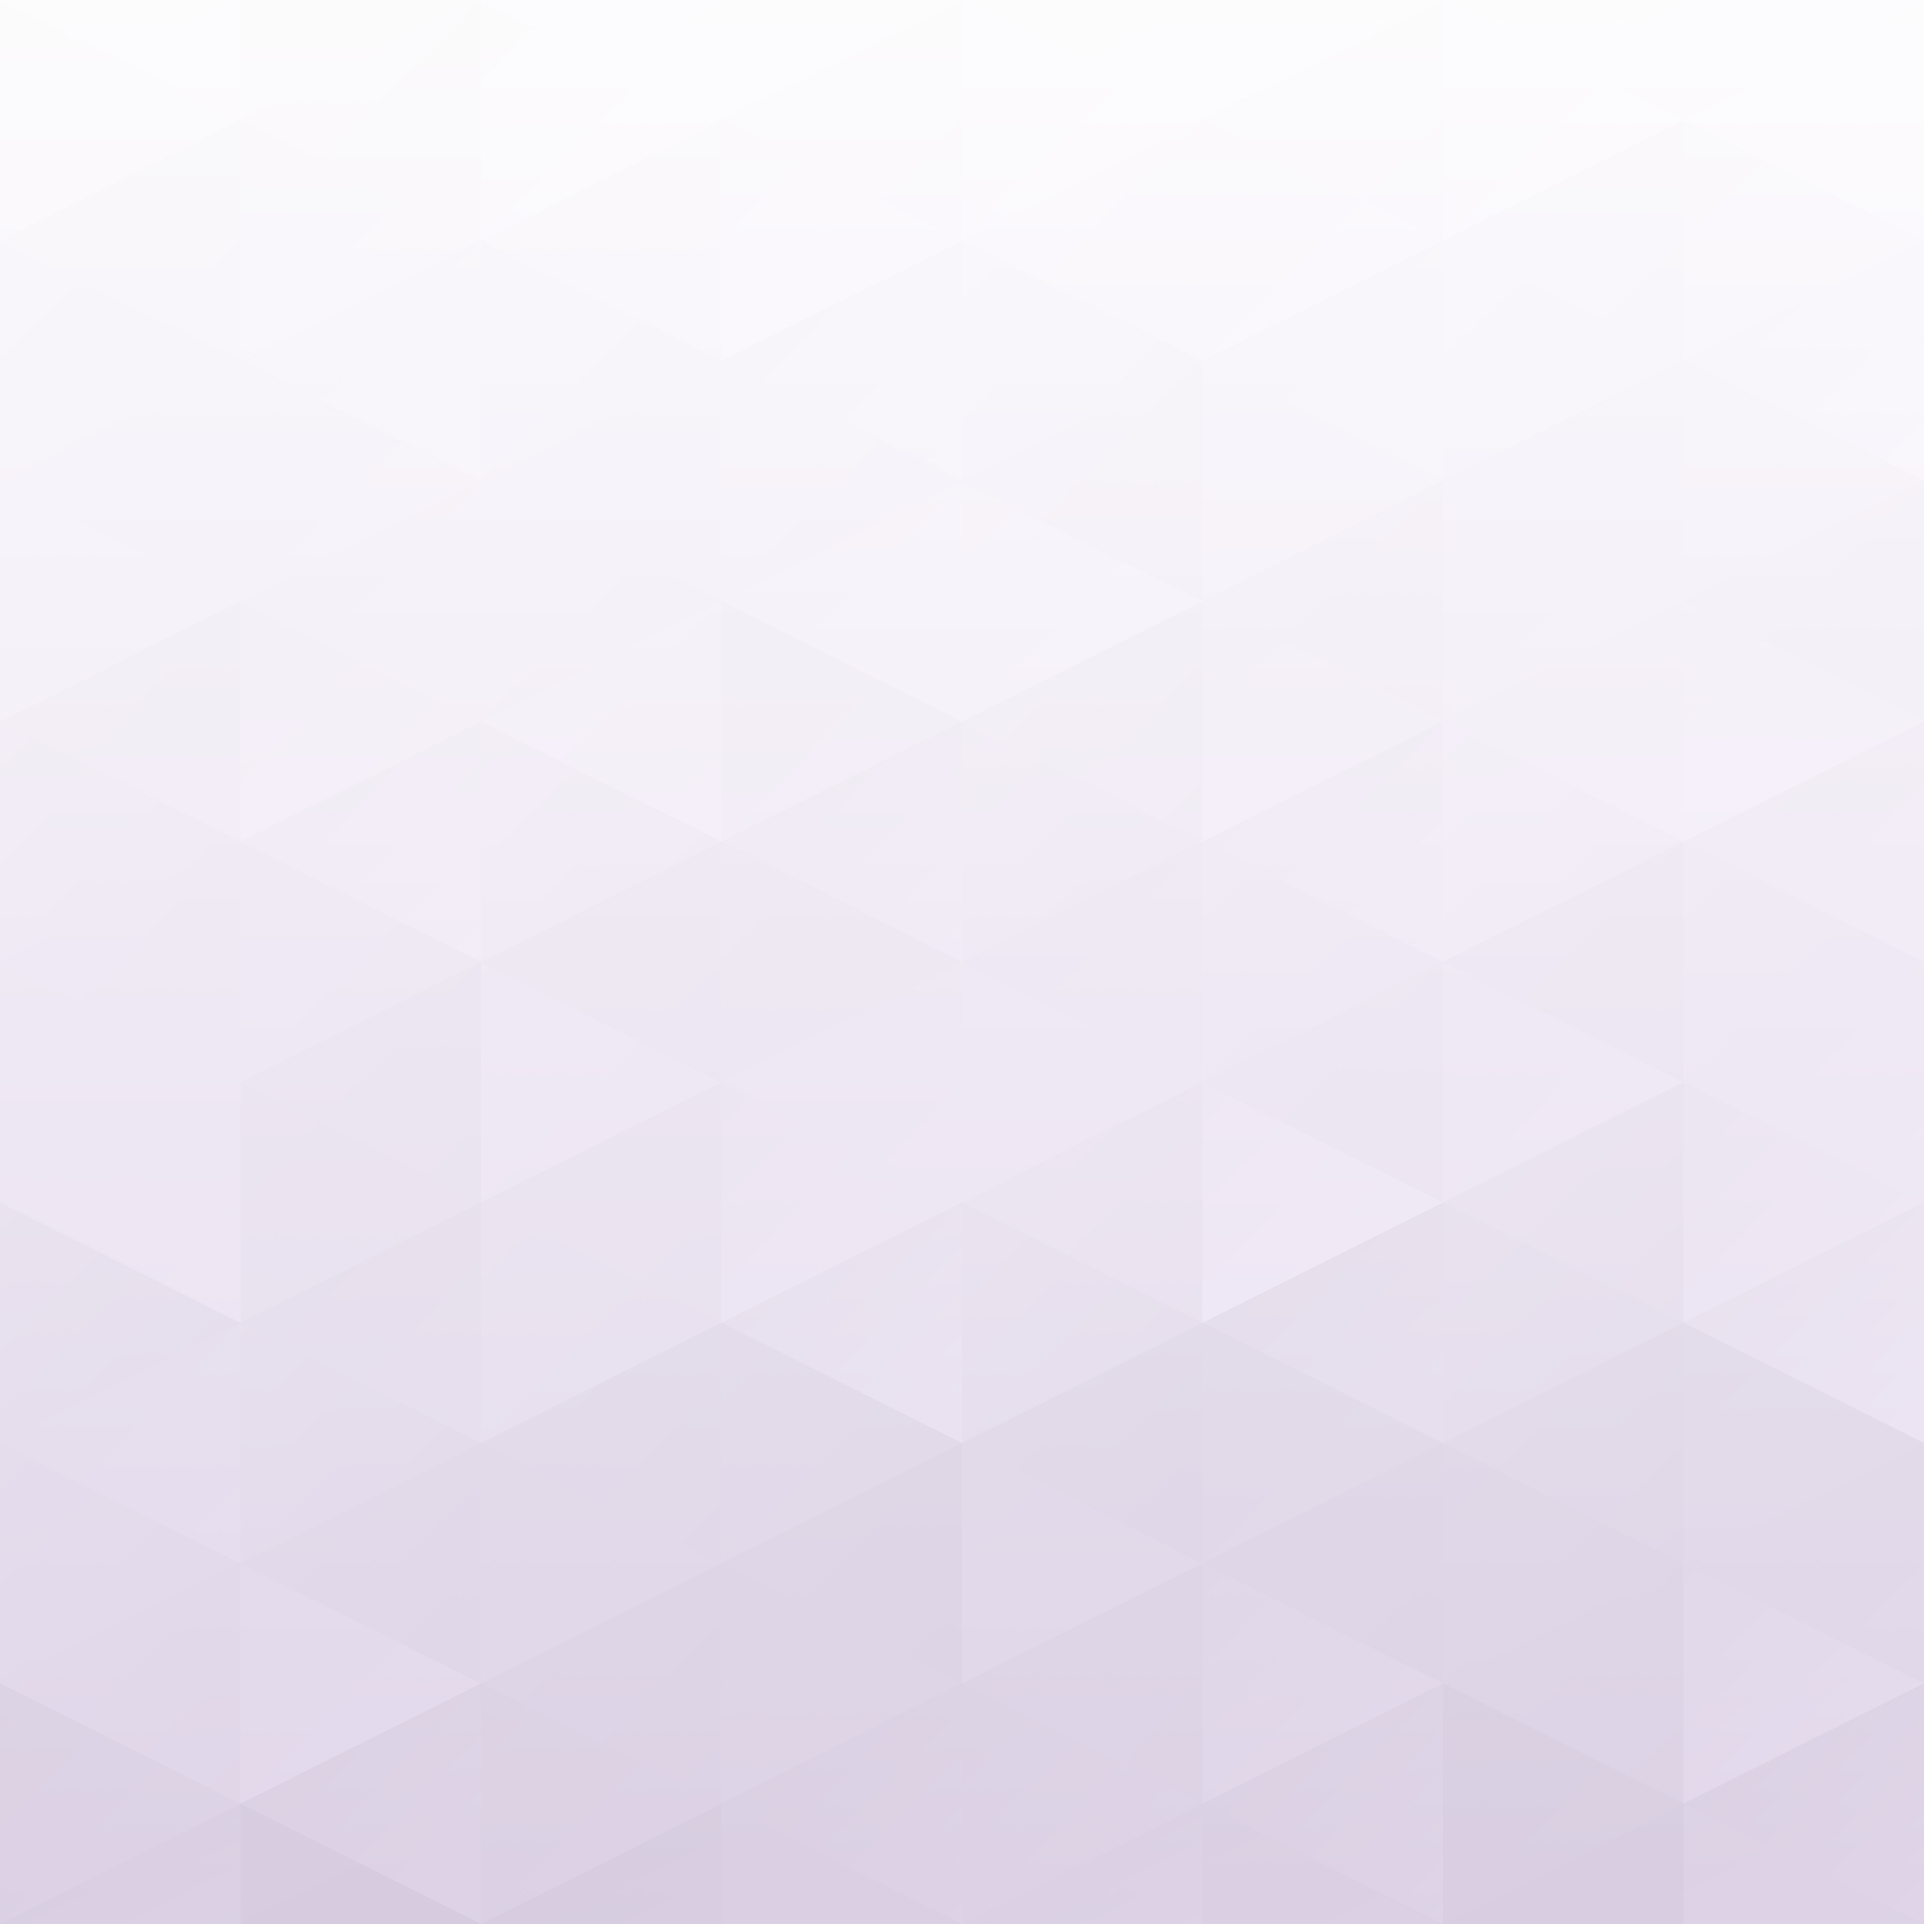
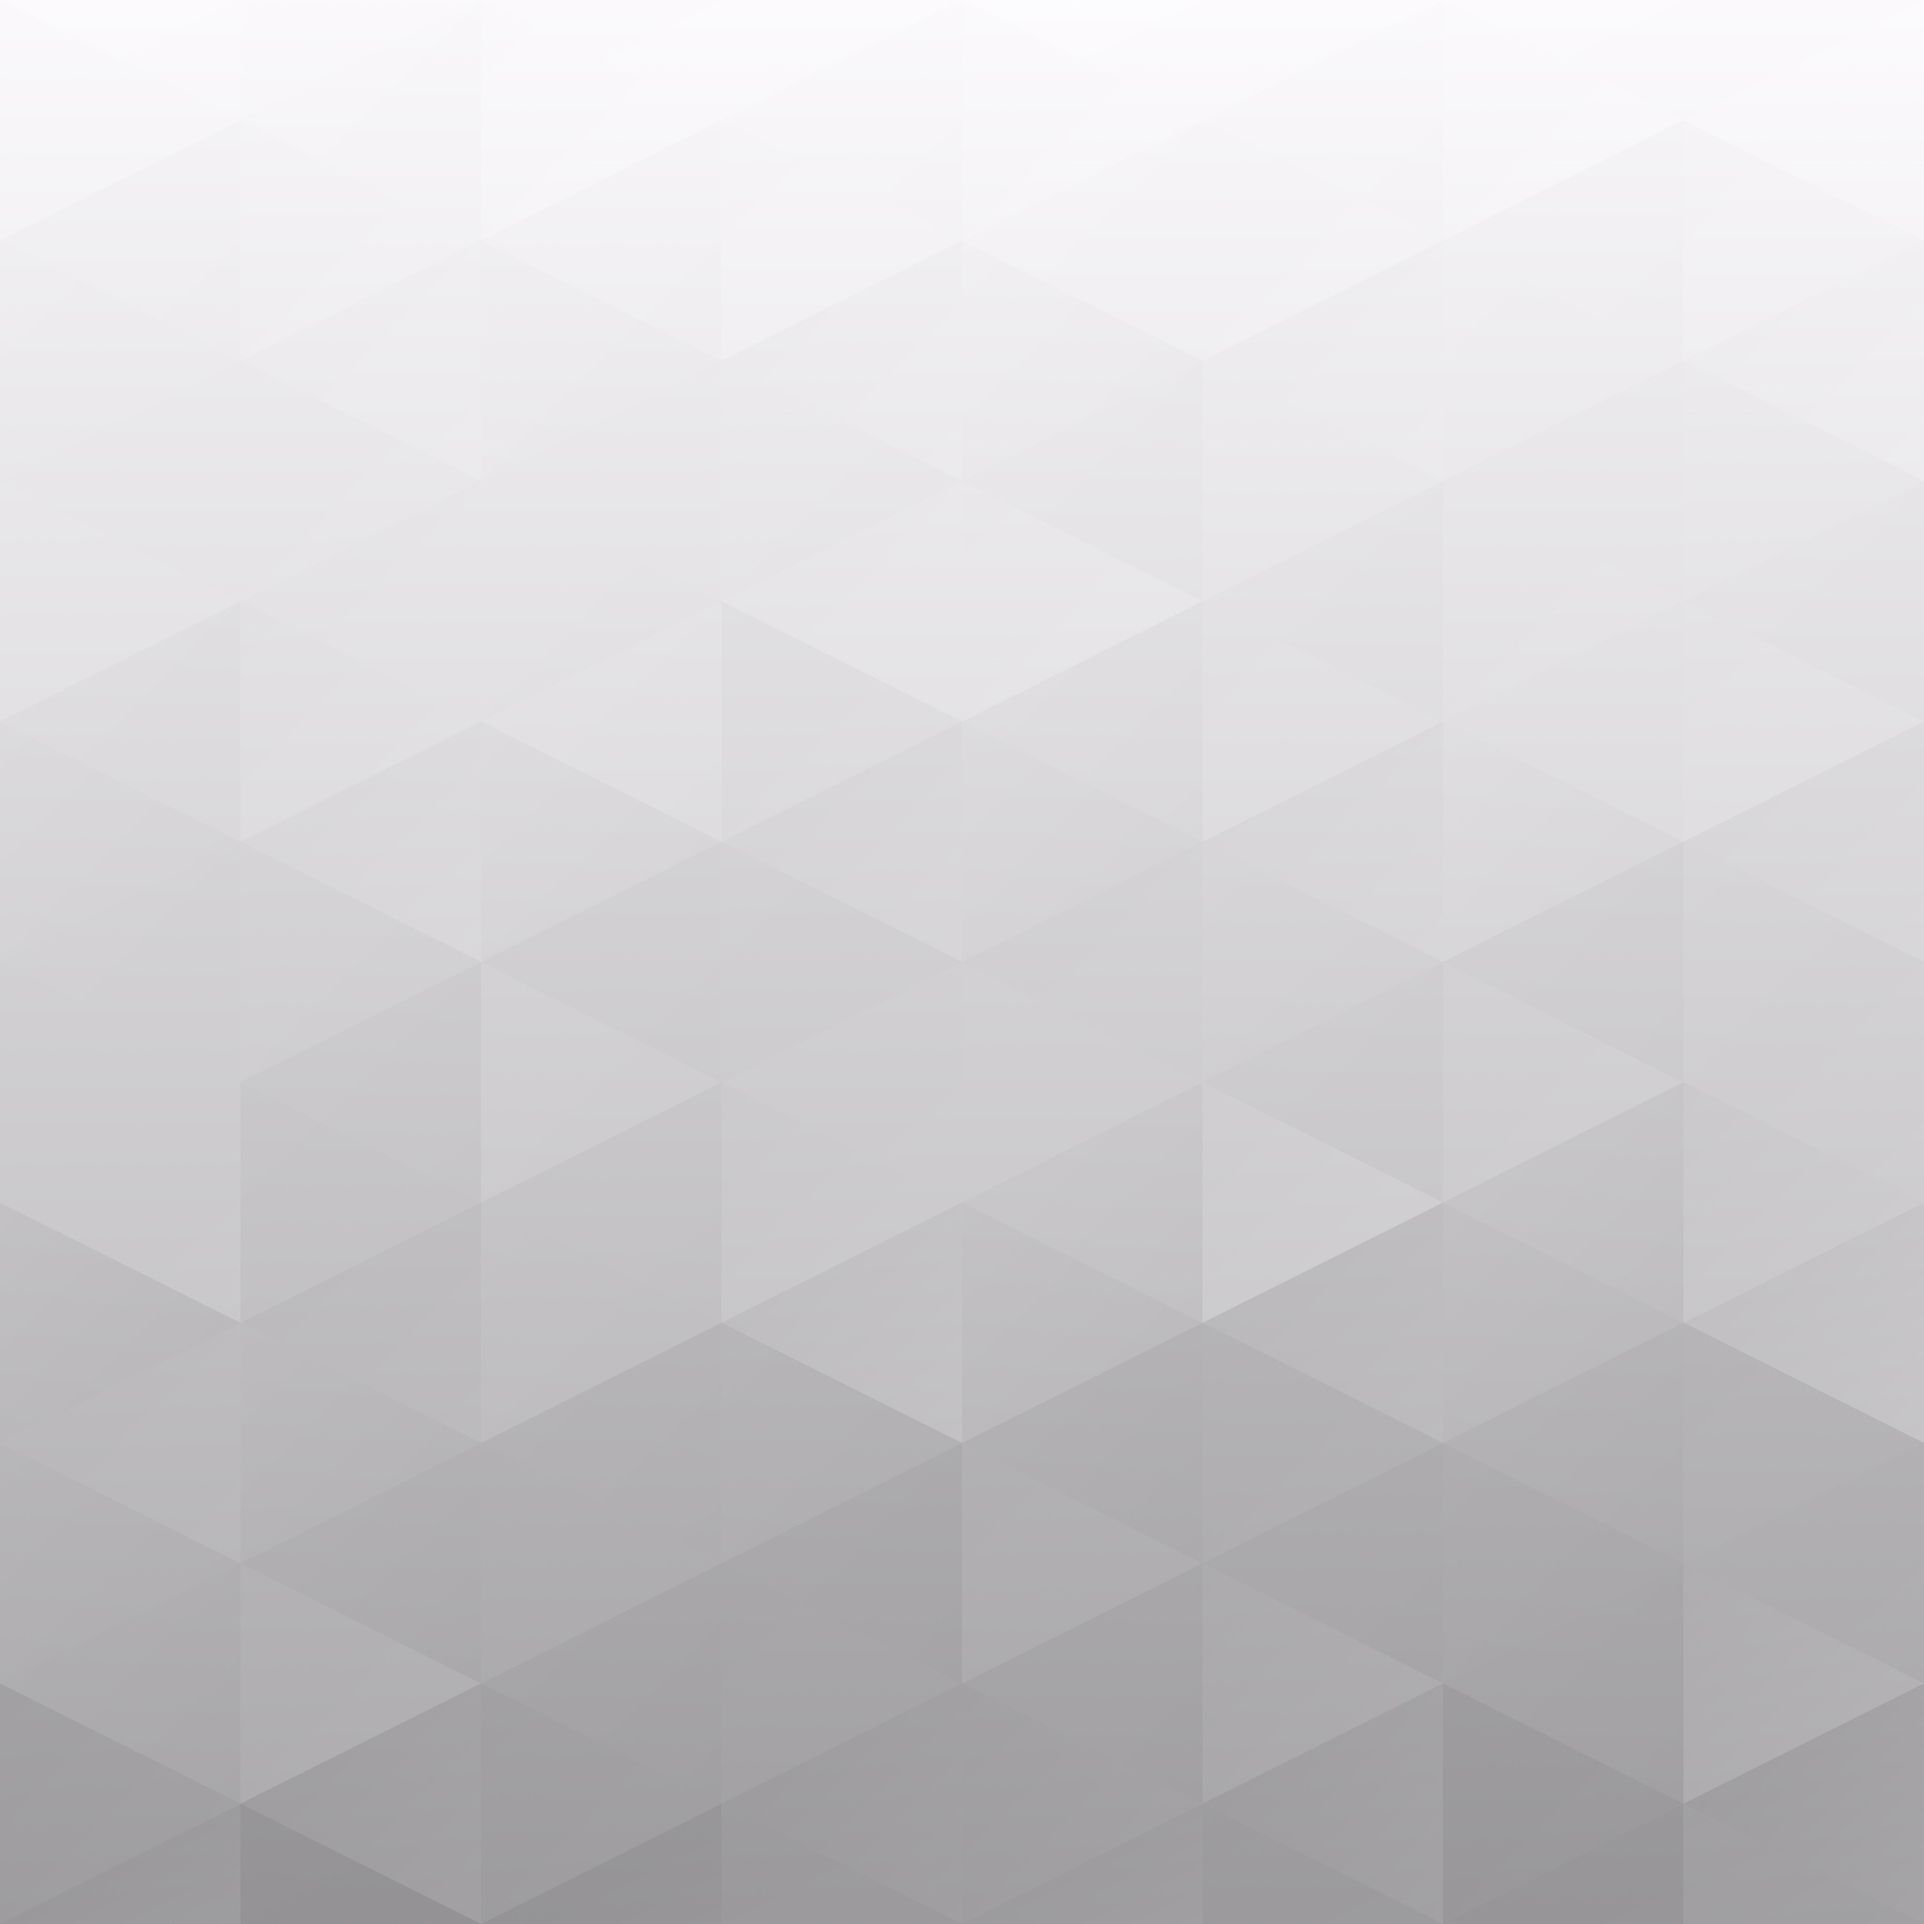
Add files via upload

diff --git a/index.html b/index.html
@@ -1,5 +1,5 @@
 <!doctype html>
-<html lang="cs">
+<html lang="en">
 
 <head>
     <title>Petr Mičola - Portfolio</title>
@@ -21,10 +21,12 @@
     <header>
         <nav class="navbar navbar-expand navbar-light justify-content-between">
             <nav class="navbar navbar-light">
-                <a class="navbar-brand" href="https://petr-micola.github.io/Portfolio/">&lt;P/M&gt;</a>
+                <a class="navbar-brand" href="https://github.com/petr-micola" target="_blank"><i
+                        class="fab fa-github"></i></a>
             </nav>
             <div class="nav navbar-nav">
-                <a class="nav-item nav-link active sm-none" href="#about">About me<span class="sr-only">(current)</span></a>
+                <a class="nav-item nav-link active sm-none" href="#about">About me<span
+                        class="sr-only">(current)</span></a>
                 <a class="nav-item nav-link sm-none" href="#projects">Projects</a>
                 <a class="nav-item nav-link sm-none" href="#contact">Contact</a>
             </div>
@@ -34,12 +36,16 @@
         <div id="about">
             <h2 class="text-center">Welcome!</h2>
             <p>I'm <span class="text-blueviolet">Petr Mičola</span>.</p>
-            <p>With a qualification in <span class="text-blueviolet">IT</span>, I’ve transitioned into a career as a <span class="text-blueviolet">web developer</span>/<span class="text-blueviolet">designer</span>.</p>
-            <p>I specialize in <span class="text-blueviolet">WordPress</span> and have expertise in <span class="text-blueviolet">HTML</span>, <span class="text-blueviolet">CSS</span>, and <span class="text-blueviolet">JavaScript</span>. 🚀</p>
+            <p>With a qualification in <span class="text-blueviolet">IT</span>, I’ve transitioned into a career as a
+                <span class="text-blueviolet">web developer</span>/<span class="text-blueviolet">designer</span>.
+            </p>
+            <p>I specialize in <span class="text-blueviolet">WordPress</span> and have expertise in <span
+                    class="text-blueviolet">HTML</span>, <span class="text-blueviolet">CSS</span>, and <span
+                    class="text-blueviolet">JavaScript</span>. 🚀</p>
         </div>
         <div id="projects">
             <h2 class="text-center">My projects</h2>
-            <div id="prvniRocnik">
+            <div id="professional">
                 <h3>Professional</h3>
                 <div class="text-center">
                     <div class="row">
@@ -49,8 +55,8 @@
                                 <div class="card-body">
                                     <h4 class="card-title">rqpower <i class="fab fa-wordpress text-info"></i></h4>
                                     <p class="card-text">Web for the photovoltaic company rqpower.</p>
-                                    <a class="btn" target="_blank" href="https://rqpower.cz/"
-                                        role="button"><i class="fas fa-link"></i> rqpower.cz</a>
+                                    <a class="btn" target="_blank" href="https://rqpower.cz/" role="button"><i
+                                            class="fas fa-link"></i> rqpower.cz</a>
                                 </div>
                             </div>
                         </div>
@@ -60,15 +66,15 @@
                                 <div class="card-body">
                                     <h4 class="card-title">Odbory SNO <i class="fab fa-wordpress text-info"></i></h4>
                                     <p class="card-text">For the Silesian Hospital department in Opava.</p>
-                                    <a class="btn" target="_blank" href="https://odborysno.cz/"
-                                        role="button"><i class="fas fa-link"></i> odborysno.cz</a>
+                                    <a class="btn" target="_blank" href="https://odborysno.cz/" role="button"><i
+                                            class="fas fa-link"></i> odborysno.cz</a>
                                 </div>
                             </div>
                         </div>
                     </div>
                 </div>
             </div>
-            <div id="druhyRocnik">
+            <div id="academic">
                 <h3>Academic</h3>
                 <div class="text-center">
                     <div class="row">
@@ -76,7 +82,9 @@
                             <div class="card">
                                 <img class="card-img-top" src="img/Sanctum.png" alt="Sanctum">
                                 <div class="card-body">
-                                    <h4 class="card-title">Sanctum <i class="fab fa-html5 text-danger"></i> <i class="fab fa-css3-alt text-primary"></i> <i class="fab fa-js-square text-warning"></i></h4>
+                                    <h4 class="card-title">Sanctum <i class="fab fa-html5 text-danger"></i> <i
+                                            class="fab fa-css3-alt text-primary"></i> <i
+                                            class="fab fa-js-square text-warning"></i></h4>
                                     <a class="btn" target="_blank" href="https://petr-micola.github.io/Sanctum/"
                                         role="button"><i class="fas fa-external-link-alt"></i> Visit</a>
                                 </div>
@@ -86,13 +94,15 @@
                             <div class="card">
                                 <img class="card-img-top" src="img/Snake.png" alt="The Snake Game">
                                 <div class="card-body">
-                                    <h4 class="card-title">Snake <i class="fab fa-html5 text-danger"></i> <i class="fab fa-css3-alt text-primary"></i> <i class="fab fa-js-square text-warning"></i></h4>
+                                    <h4 class="card-title">Snake <i class="fab fa-html5 text-danger"></i> <i
+                                            class="fab fa-css3-alt text-primary"></i> <i
+                                            class="fab fa-js-square text-warning"></i></h4>
                                     <a class="btn" target="_blank" href="https://petr-micola.github.io/The-Snake-Game/"
                                         role="button"><i class="fas fa-external-link-alt"></i> Visit</a>
                                 </div>
                             </div>
                         </div>
-                        <div class="col-12 col-sm-6 col-md-6 mt-md-4 col-xl-4 mt-xl-0">
+                        <div class="col-12 col-sm-6 col-md-6 col-xl-4 mt-lg-5 mt-xl-0">
                             <div class="card">
                                 <img class="card-img-top" src="img/github.jpg" alt="GitHub">
                                 <div class="card-body">
@@ -109,26 +119,27 @@
         <div id="contact">
             <h2 class="text-center">Contact me</h2>
             <h4>E-mail</h4>
-            <p><i class="fas fa-at text-blueviolet"></i> <a href="mailto:petr-micola@seznam.cz">petr-micola@seznam.cz</a></p>
+            <p><i class="fas fa-at text-blueviolet"></i> <a
+                    href="mailto:petr-micola@seznam.cz">petr-micola@seznam.cz</a></p>
         </div>
         <button id="toTop" type="button" class="btn"><i class="fas fa-chevron-up"></i></button>
     </main>
     <footer class="text-center p-4">
         <p>&copy; 2025 Petr Mičola</p>
-        <p><a target="_blank" href="https://github.com/petr-micola"
-            role="button"><i class="fab fa-github"></i> github.com/petr-micola</a></p>
+        <p><a target="_blank" href="https://github.com/petr-micola" role="button"><i class="fab fa-github"></i>
+                github.com/petr-micola</a></p>
     </footer>
     <!-- Optional JavaScript -->
     <!-- jQuery first, then Popper.js, then Bootstrap JS -->
     <script src="https://code.jquery.com/jquery-3.3.1.slim.min.js"
         integrity="sha384-q8i/X+965DzO0rT7abK41JStQIAqVgRVzpbzo5smXKp4YfRvH+8abtTE1Pi6jizo" crossorigin="anonymous">
-    </script>
+        </script>
     <script src="https://cdnjs.cloudflare.com/ajax/libs/popper.js/1.14.7/umd/popper.min.js"
         integrity="sha384-UO2eT0CpHqdSJQ6hJty5KVphtPhzWj9WO1clHTMGa3JDZwrnQq4sF86dIHNDz0W1" crossorigin="anonymous">
-    </script>
+        </script>
     <script src="https://stackpath.bootstrapcdn.com/bootstrap/4.3.1/js/bootstrap.min.js"
         integrity="sha384-JjSmVgyd0p3pXB1rRibZUAYoIIy6OrQ6VrjIEaFf/nJGzIxFDsf4x0xIM+B07jRM" crossorigin="anonymous">
-    </script>
+        </script>
     <script src="https://kit.fontawesome.com/9a71760520.js" crossorigin="anonymous"></script>
     <script src="js/main.js"></script>
 </body>

diff --git a/css/style.css b/css/style.css
@@ -1,16 +1,13 @@
 @import url('https://fonts.googleapis.com/css2?family=Inter&display=swap');
 
-* {
-    font-family: 'Inter', sans-serif;
-}
-
 html {
     scroll-behavior: smooth;
 }
 
 body {
+    font-family: 'Inter', sans-serif;
     position: relative;
-    background-image: url('../img/bg.jpg');
+    background-image: url('../img/bg.png');
     background-size: cover;
     background-position: center;
     background-repeat: no-repeat;
@@ -20,15 +17,23 @@ body {
     font-size: large;
 }
 
-footer {
-    color: rgba(255, 255, 255, 0.50) !important;
-    background-color: #212124 !important;
+.navbar-brand {
+    font-size: xx-large;
+}
+
+h3 {
+    font-size: x-large;
+}
+
+#about p,
+#contact p {
+    font-size: larger;
 }
 
 .text-blueviolet,
 a,
 h2 {
-    color: blueviolet !important;
+    color: rgb(120, 53, 243) !important;
 }
 
 a {
@@ -36,11 +41,7 @@ a {
 }
 
 a:hover {
-    color: gainsboro !important;
-}
-
-#toTop:hover {
-    background-color: gainsboro !important;
+    color: #5224a6 !important;
 }
 
 #toTop {
@@ -52,19 +53,29 @@ a:hover {
     right: 30px;
     z-index: 99;
     transition: all .5s ease;
-    background-color: blueviolet;
+    background-color: rgb(120, 53, 243);
     color: white;
     font-size: 14px;
     border: none;
-    box-shadow: 0px 8px 15px rgba(0, 0, 0, 0.2);
+    box-shadow: 0px 8px 15px rgba(82, 36, 166, 0.2);
     outline: none;
     padding: 0.75em 1em;
+}
+
+#toTop:hover {
+    background-color: #5224a6 !important;
+}
+
+.btn:focus,
+.btn:active {
+    outline: none !important;
+    box-shadow: none;
 }
 
 .card {
     border-radius: 15px;
     border: none;
-    box-shadow: 0px 8px 15px rgba(0, 0, 0, 0.2);
+    box-shadow: 0px 8px 15px rgba(82, 36, 166, 0.2);
 }
 
 .card-text {
@@ -80,10 +91,9 @@ a:hover {
     border-top-right-radius: 15px;
 }
 
-.btn:focus,
-.btn:active {
-    outline: none !important;
-    box-shadow: none;
+footer {
+    color: rgba(255, 255, 255, 0.50) !important;
+    background-color: #1b1b1d !important;
 }
 
 .visible {
@@ -91,22 +101,39 @@ a:hover {
     opacity: 1 !important;
 }
 
-@media (max-width: 575px) {
+/* Mobile */
+@media (max-width: 767px) {
+    .sm-none {
+        display: none;
+    }
+
     #toTop {
         bottom: 20px;
         right: 20px;
     }
+}
 
+/* Tablet */
+@media (max-width: 991px) {
     .card {
-        margin: 1.5em !important;
+        margin: 1.5em 0 1.5em 0;
+    }
+
+    #projects h2,
+    #contact h2 {
+        padding-top: 1em;
+    }
+
+    #contact {
+        padding-bottom: 2em;
+    }
+
+    #projects h3 {
+        padding-top: 1em;
     }
 }
 
-#about p,
-#contact p {
-    font-size: larger;
-}
-
+/* PC */
 @media (min-width: 992px) {
     nav div a {
         padding: 0 15px !important;
@@ -122,24 +149,7 @@ a:hover {
         padding: 0 0 20px 0;
     }
 
-    #projects #druhyRocnik h3,
-    #projects #tretiRocnik h3 {
+    #projects #academic h3 {
         padding: 40px 0 20px 0;
     }
-}
-
-@media (max-width: 991px) {
-    .card {
-        margin: 1.5em 0 1.5em 0;
-    }
-}
-
-@media (max-width: 575px) {
-    .sm-none {
-        display: none;
-    }
-}
-
-h3 {
-    font-size: x-large;
 }

diff --git a/js/main.js b/js/main.js
@@ -1,5 +1,4 @@
 const btn = document.getElementById('toTop');
-const btn2 = document.getElementById('darkToggle');
 
 function scrollFunction() {
     if (document.body.scrollTop > 20 || document.documentElement.scrollTop > 20) {
@@ -17,7 +16,3 @@ btn.addEventListener('click', function () {
 window.onscroll = function () {
     scrollFunction()
 };
-
-btn2.addEventListener('click', function () {
-    document.body.classList.toggle('dark');
-})
